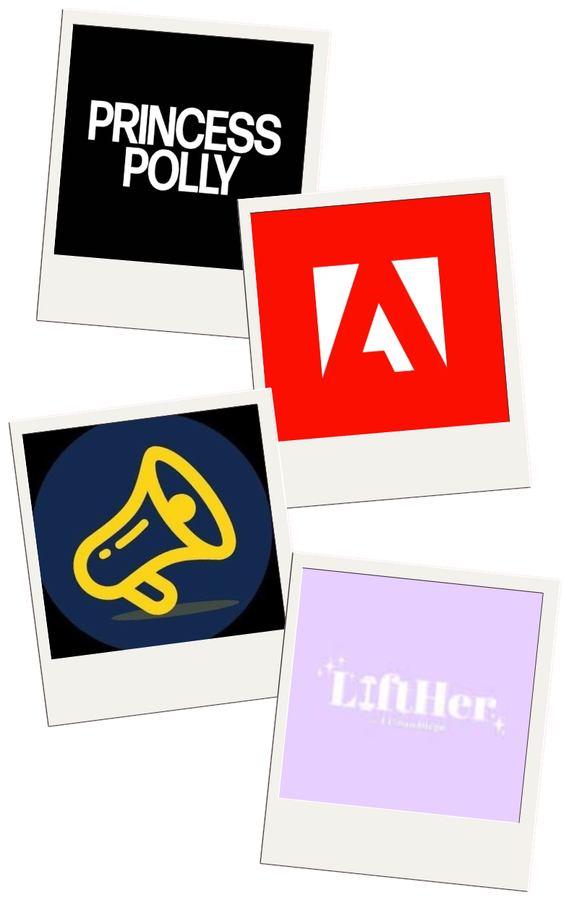
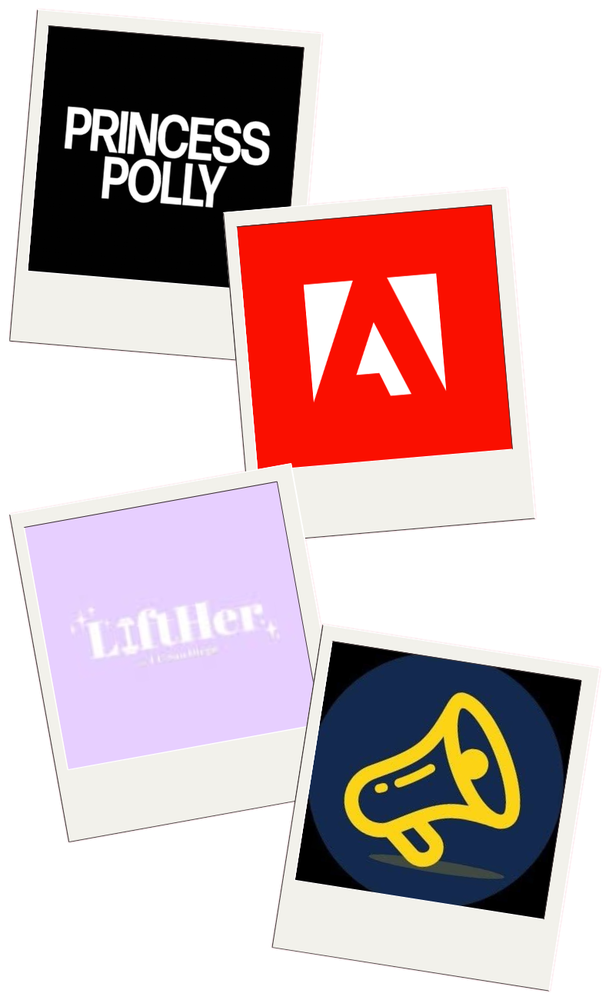
Adjusting Roles & Polaroid Pics

diff --git a/index.html b/index.html
@@ -163,17 +163,17 @@
             <p class="meta">Adobe</p>
           </li>
           <li class="reveal">
-            <h3>Club Member</h3>
-            <p class="meta">REACH @ UCSD</p>
+            <h3>Marketing Chair</h3>
+            <p class="meta">LiftHer @ UCSD</p>
           </li>
           <li class="reveal">
             <h3>Club Member</h3>
-            <p class="meta">LiftHer @ UCSD</p>
+            <p class="meta">REACH @ UCSD</p>
           </li>
         </ul>
       </div>
       <!-- Logos for the roles at left (transparent PNG) -->
-      <img class="roles-img" src="images/roles.png" alt="Polaroid-style cards showing the Princess Polly, Adobe, REACH, and LiftHer logos" loading="lazy">
+      <img class="roles-img" src="images/roles.png" alt="Polaroid-style cards showing the Princess Polly, Adobe, LiftHer, and REACH logos" loading="lazy">
       <div>
         <h2 class="bold">Skills</h2>
         <ul class="tags" aria-label="Skills and tools">
